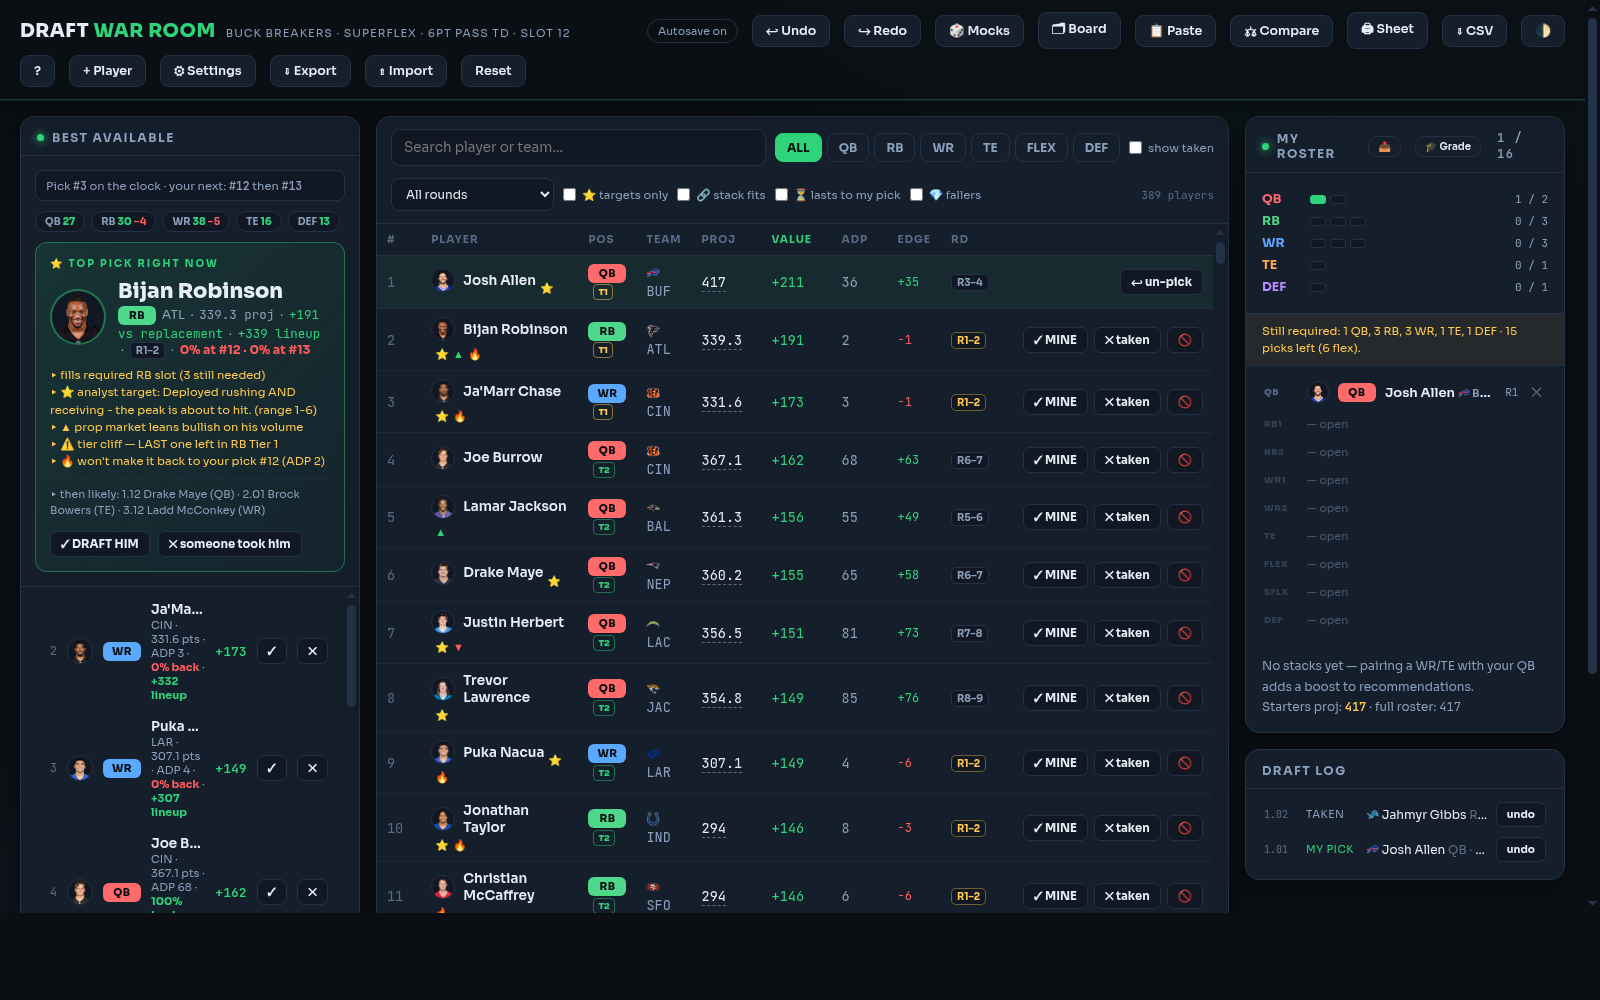
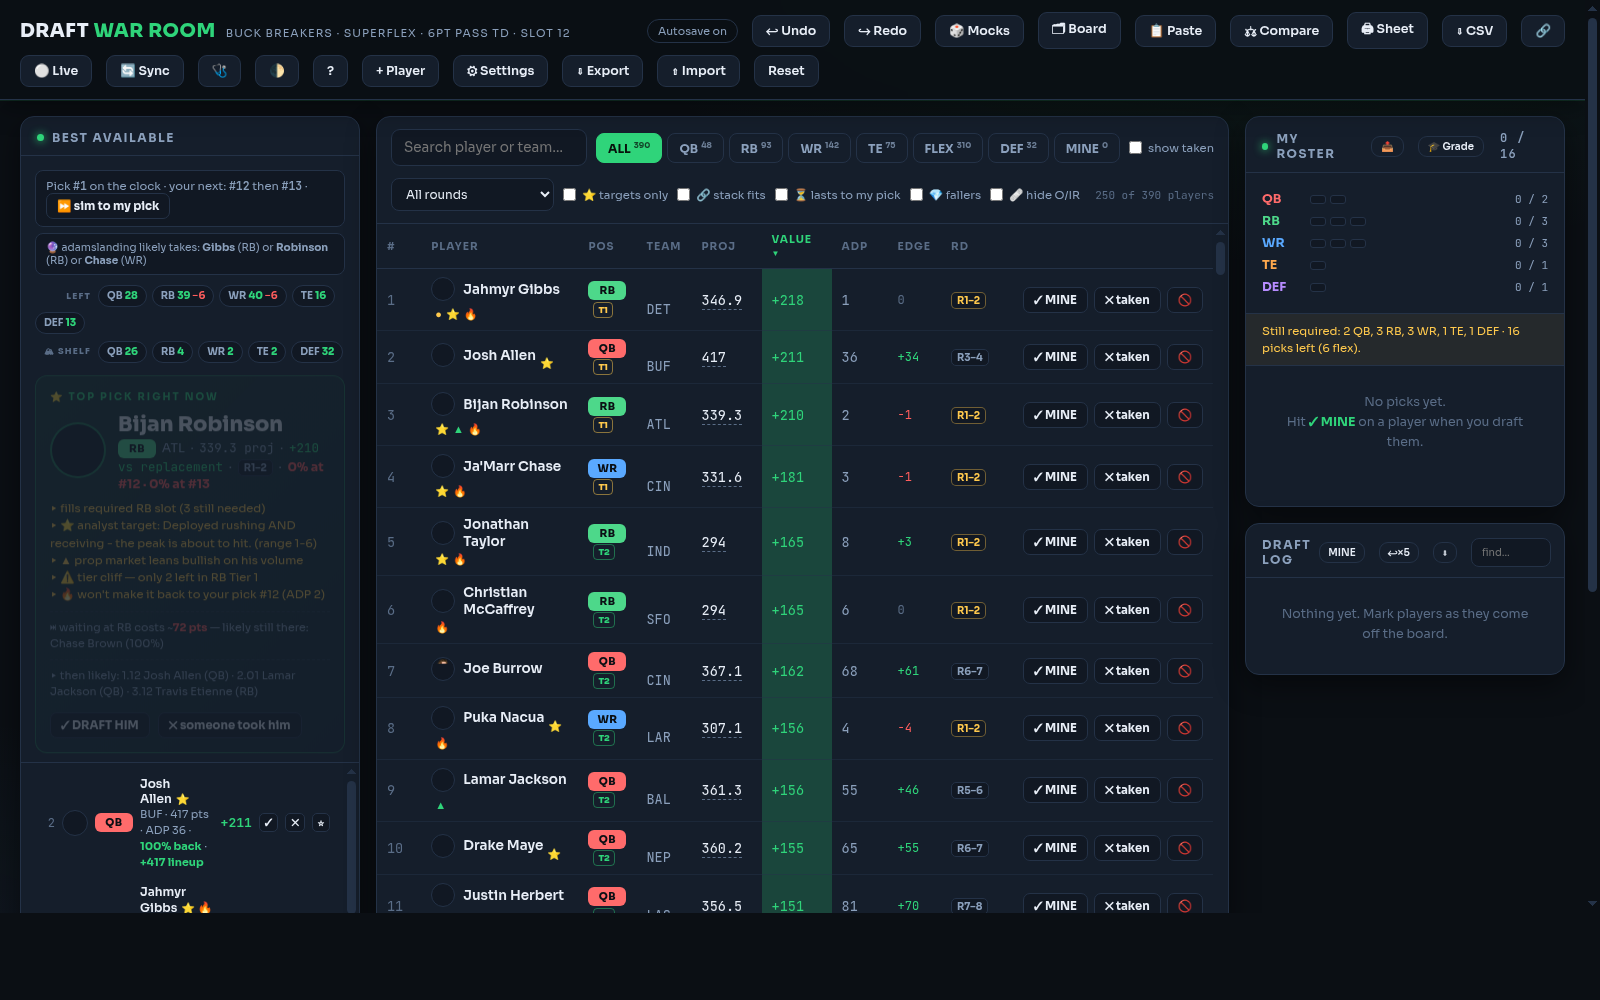
Round 30: v8 finale — budgets rebased, docs current, hundred labeled
Fixes #491. Fixes #492. Fixes #493. Fixes #494. Fixes #495.
Fixes #496. Fixes #497. Fixes #498.

Claude-Session: https://claude.ai/code/session_01C1ztnfbvCytMSLRPXKyeey

diff --git a/MANUAL.md b/MANUAL.md
@@ -11,6 +11,10 @@ cards (`C` compare, `Q` queue, boost/fade from the Intel tab), pin a **Plan**
 target per round, rehearse with 🎲 Mocks and 🧪 Scenarios, export your prep
 file to your phone.
 
+## Drafting on Sleeper?
+Settings → paste the league ID (names import themselves), then hit **🔄 Sync**
+when the room opens — every pick marks itself. See SYNC.md.
+
 ## Draft day
 Flip **🔴 Live**. Mark every pick — `✓ MINE` for yours, `✕ taken` for theirs
 (📋 Paste to catch up; click the pick banner to resync the number). The panic
@@ -32,4 +36,4 @@ Season HQ takes over the hero: 📡 waiver radar, 📰 your players' headlines,
 ## Every summer
 `./tools/refresh.sh new-projections.csv new-board.csv` then push. Done.
 
-Full docs: README · PREP · ENGINE · PERF · DATA · ARCHITECTURE · BESTPRACTICES · PRIVACY · CHANGELOG.
+Any-league setup: LEAGUES.md · Live sync: SYNC.md · In-season: SEASONS.md · Full docs: README · PREP · ENGINE · PERF · DATA · ARCHITECTURE · BESTPRACTICES · PRIVACY · CHANGELOG.

diff --git a/CHANGELOG.md b/CHANGELOG.md
@@ -1,5 +1,13 @@
 # Changelog — Draft War Room
 
+## v8.0 (2026-08-02) — The fifth hundred (#401–#500)
+🔄 Live Sleeper draft sync (picks mark themselves) · real 2026 byes + season
+SOS from ESPN schedules · red-zone/snap/playoff/spike-week usage layer ·
+any-league roster shapes with auction values · traded-pick ownership, board
+editing and replay · voice notes, rebindable keys · modular architecture
+(core/views/wire/boot) with per-module budgets, goldens, coverage and a
+19-check E2E · Season HQ: title odds, FAAB hints, digests, calendars.
+
 ## v7.0 (2026-08-02) — The fourth hundred (#301–#400)
 Engine: pure kernel (engine.js), adaptive bots that learn each team's reach
 tendency, run contagion, risk dial, sim-count setting, offense environment,

diff --git a/README.md b/README.md
@@ -3,7 +3,7 @@
 ![player card](assets/player-card.png)
 
 
-The full draft-day cockpit for a **12-team superflex league, 6-pt passing TDs, slot 12**. Static site — pushes to `main` auto-deploy on Vercel. Installable PWA, works offline once loaded.
+The full draft-day cockpit for **any league shape** (built for a 12-team superflex, 6-pt pass TD, slot 12). Live Sleeper draft sync, real 2026 byes and schedules, three seasons of usage-grade stats on every player. Static site — pushes to `main` auto-deploy on Vercel. Installable PWA, works offline once loaded.
 
 **House key to enter:** the classic. 🔑
 
